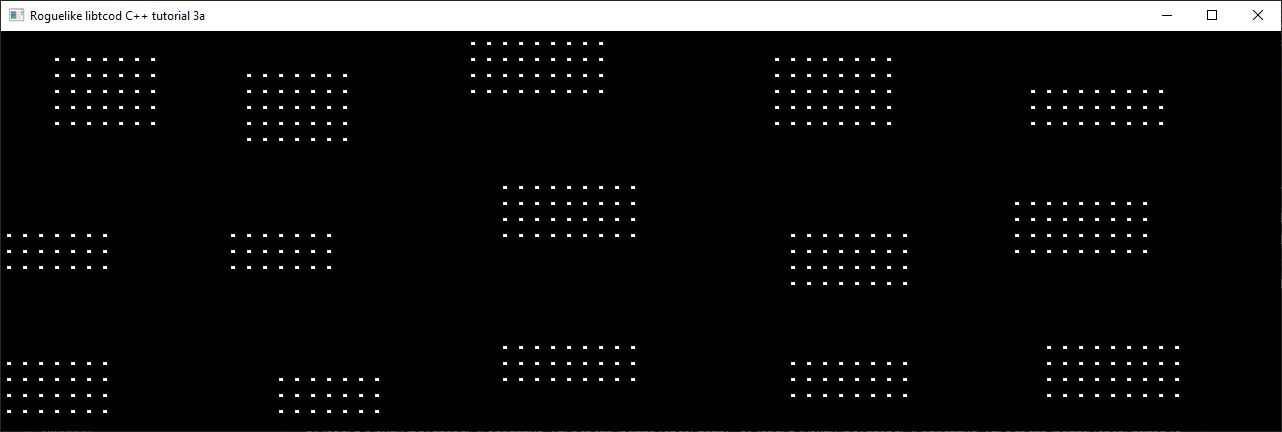
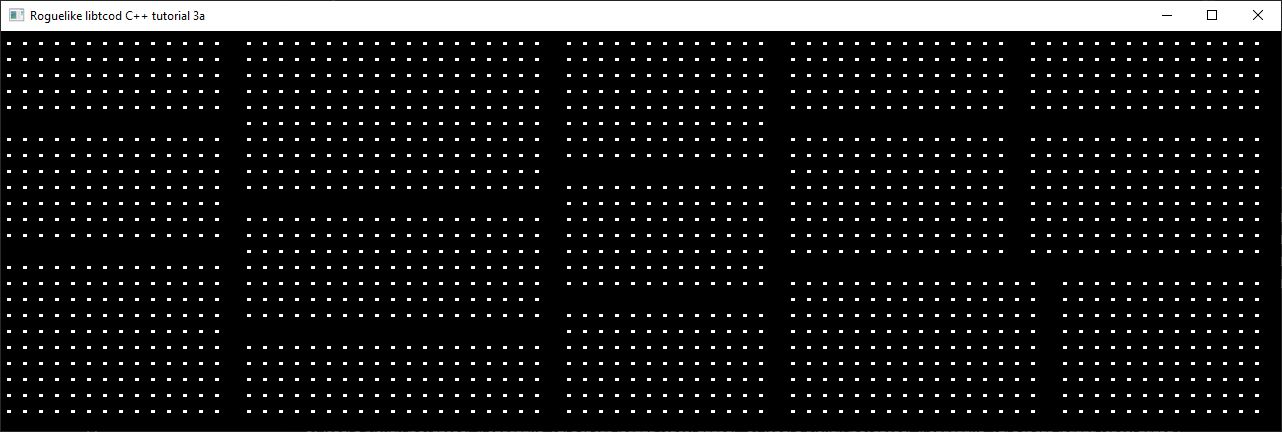
tutorial3a: show unvarnished BSP algorithm at work

diff --git a/tutorial3a/src/MapGenerator.cpp b/tutorial3a/src/MapGenerator.cpp
@@ -16,43 +16,33 @@ bool MapGenerator::visitNode(TCODBsp *node, void *userData) {
     return true;
   }
 
+  /*
   int minx = node->x;
   int maxx = node->x + node->w;
   int miny = node->y;
   int maxy = node->y + node->h;
+*/
 
   /*
-  minx = TCODRandom::getInstance()->getInt(minx, maxx - minRoomSize);
-  miny = TCODRandom::getInstance()->getInt(miny, maxy - minRoomSize);
-  maxx = TCODRandom::getInstance()->getInt(minx + minRoomSize, maxx);
-  maxy = TCODRandom::getInstance()->getInt(miny + minRoomSize, maxy);
-  */
-
-  /*
-  node->x = minx;
-  node->y = miny;
-  node->w = (maxx - minx + 1);
-  node->h = (maxy - miny + 1);
-  */
-
   node->w = node->w / 2;
   node->h = node->h / 2;
   node->x = minx + TCODRandom::getInstance()->getInt(0, 3);
   node->y = miny + TCODRandom::getInstance()->getInt(0, 3);
   ;
-
-  map.addRoom(pos_t{node->x, node->y}, node->w, node->h);
+*/
+  map.addRoom(generate_room(node->x, node->y, node->w, node->h));
   return true;
 }
 
-/*
-Map generate_map(int width, int height) {
-  MapGenerator generator(width, height);
-  auto bsp{TCODBsp{0, 0, width, height}};
-  bsp.splitRecursive(TCODRandom::getInstance(), 4, MAX_ROOM_SIZE, MIN_ROOM_SIZE, 1.5F, 1.5F);
-  bsp.traverseInvertedLevelOrder(&generator, NULL);
-  return map;
+Room MapGenerator::generate_room(int x, int y, int width, int height) {
+  int random_x = x;
+  int random_y = y;
+  int random_width = width - 1;
+  int random_height = height - 1;
+
+  // Put your custom random room generating algorithm here
+
+  return Room(pos_t{random_x, random_y}, random_width, random_height);
 }
-*/
 
 }  // namespace tutorial

diff --git a/tutorial3a/include/MapGenerator.hpp b/tutorial3a/include/MapGenerator.hpp
@@ -5,6 +5,7 @@
 #include <memory>
 
 #include "Map.hpp"
+#include "Rectangle.hpp"
 
 namespace tutorial {
 
@@ -23,6 +24,8 @@ class MapGenerator : public ITCODBspCallback {
   bool visitNode(TCODBsp *node, void *userData) override;
 
   Map generate();
+
+  Room generate_room(int x, int y, int width, int height);
 
  private:
   int maxRooms;

diff --git a/tutorial3a/src/Map.cpp b/tutorial3a/src/Map.cpp
@@ -12,8 +12,8 @@ int Map::get_height() const {
   return height;
 }
 
-void Map::addRoom(pos_t top_left, int w, int h) {
-  rooms.push_back(Room{top_left, w, h});
+void Map::addRoom(Room room) {
+  rooms.push_back(room);
 }
 
 }  // namespace tutorial

diff --git a/tutorial3a/include/Map.hpp b/tutorial3a/include/Map.hpp
@@ -12,7 +12,7 @@ class Map {
   Map(int width, int height);
   int get_width() const;
   int get_height() const;
-  void addRoom(pos_t top_left, int w, int h);
+  void addRoom(Room room);
 
   std::vector<Room> rooms;
   std::vector<Tunnel> tunnels;

diff --git a/README.md b/README.md
@@ -63,3 +63,5 @@ Veered of the python tutorial part 3 to implement same result using BSP trees
 Getting started with BSP Trees in libtcod
 
 ![Tutorial 3a](https://raw.githubusercontent.com/raspberrypisig/roguelike-firststab/main/images/tutorial3a.jpg)
+
+We can then judiciously choose to put rooms in those location, in the safe knowledge that they cannot overlap.
